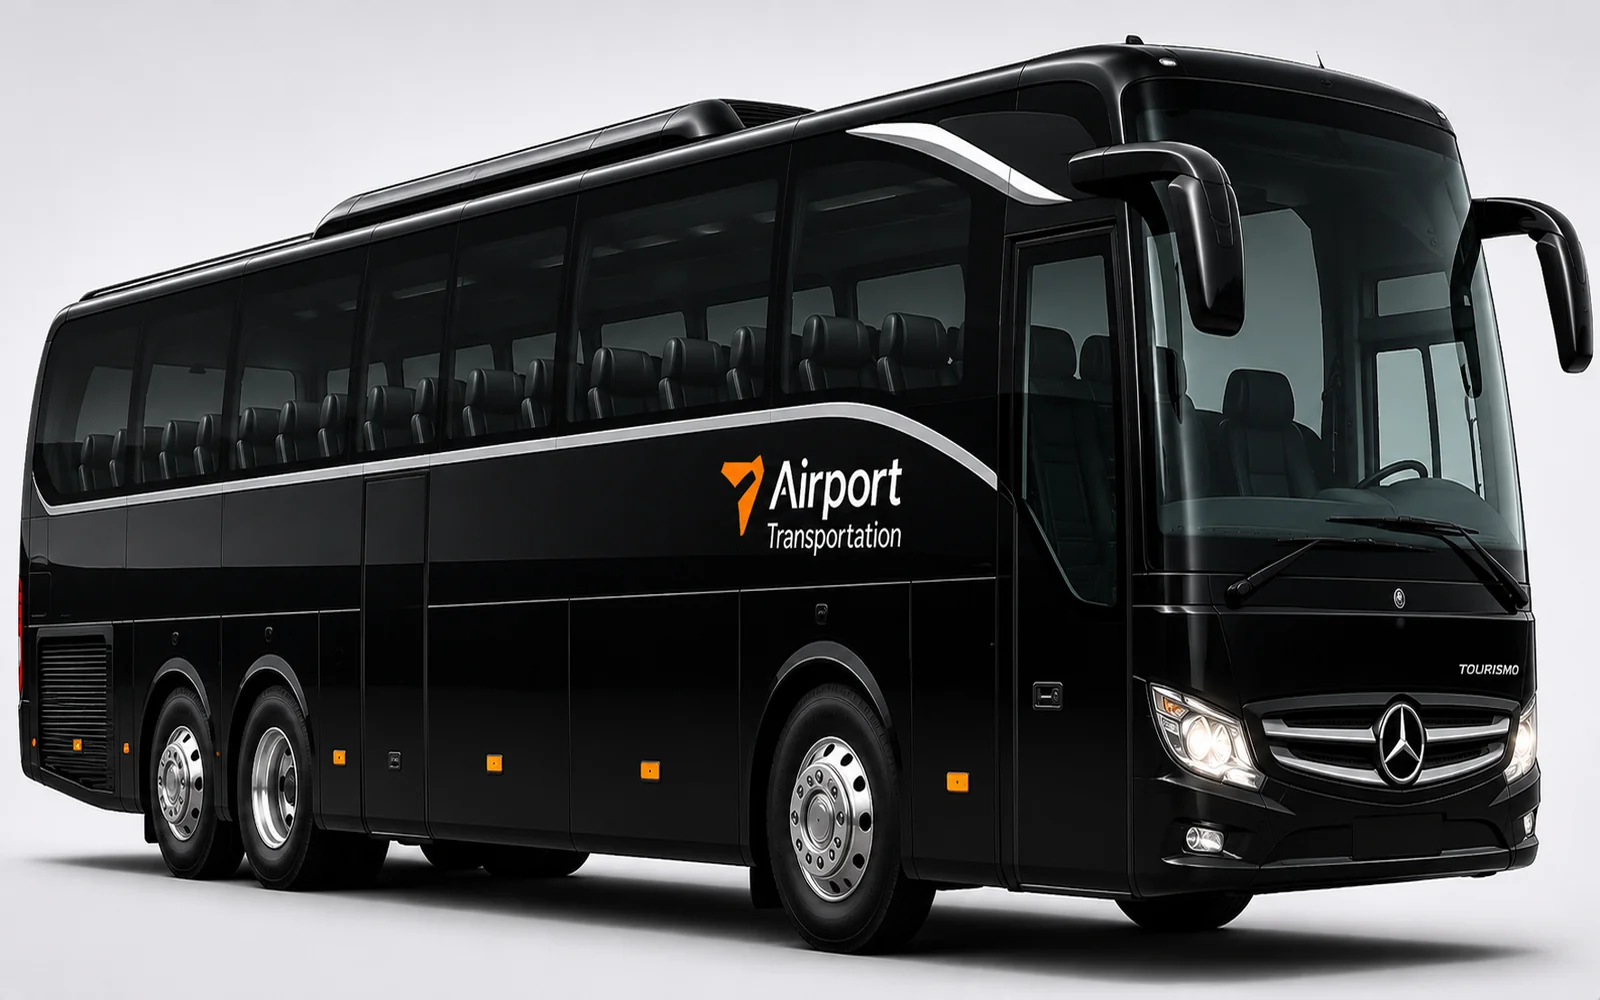
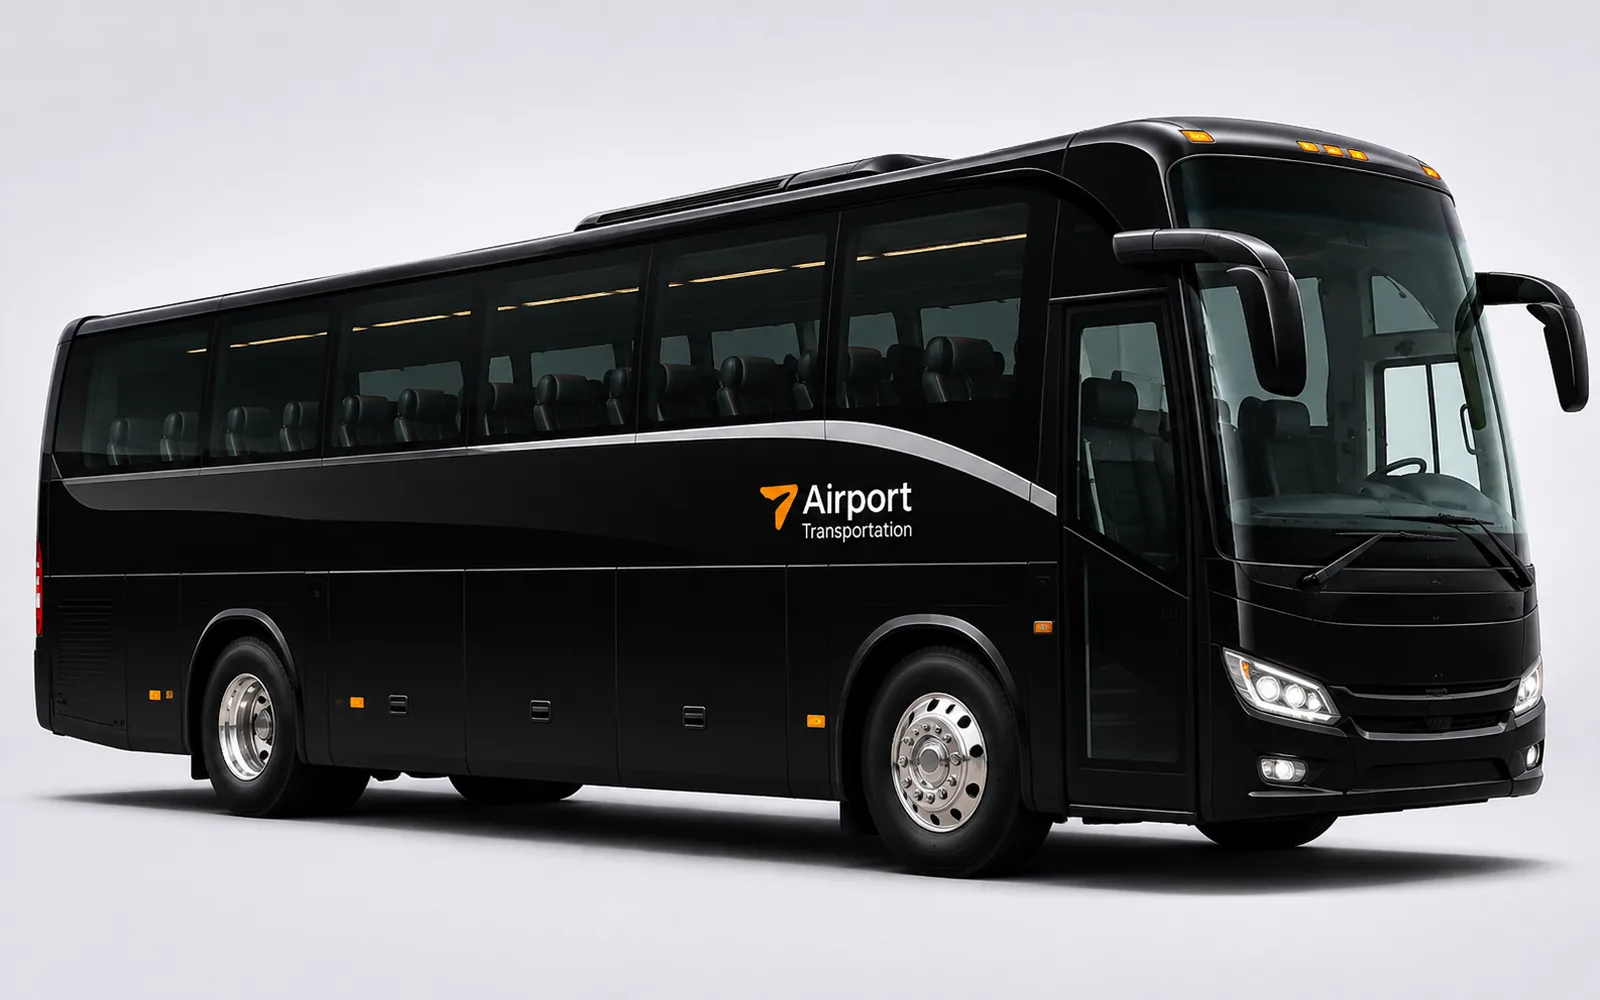
0.20.1: Coach and Mini Coach photos
Claude-Session: https://claude.ai/code/session_01WYGz59AJ9jWC9ZD3uRXuYX

diff --git a/atcom-booking-engine.php b/atcom-booking-engine.php
@@ -2,7 +2,7 @@
 /**
  * Plugin Name:       ATCOM Booking Engine
  * Description:       Booking engine for AirportTransportation.com: providers, prices, bookings, payments and payouts.
- * Version:           0.20.0
+ * Version:           0.20.1
  * Requires at least: 6.4
  * Requires PHP:      8.1
  * Author:            AirportTransportation.com
@@ -12,7 +12,7 @@
 
 defined( 'ABSPATH' ) || exit;
 
-define( 'ATC_VERSION', '0.20.0' );
+define( 'ATC_VERSION', '0.20.1' );
 define( 'ATC_DB_VERSION', '22' );
 define( 'ATC_FILE', __FILE__ );
 define( 'ATC_DIR', plugin_dir_path( __FILE__ ) );
